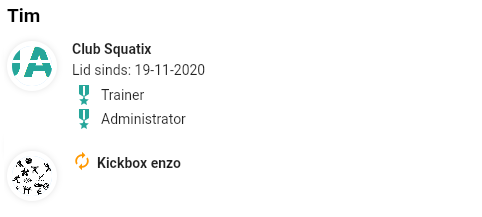
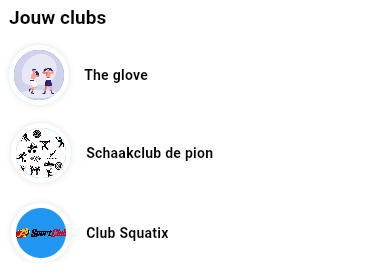
changes

diff --git a/docs/user/club.md b/docs/user/club.md
@@ -25,11 +25,11 @@ Vooraleer je van start kan gaan dien je eerst een ledenverzoek naar de club te s
 
 Je komt nu op de pagina terecht waar je zowel de status van jouw clubs/ledenverzoeken kan bekijken, op zoek gaan naar een club of zelf een club aanmaken.
 
-### Status clubs
+### Jouw clubs
 
-Je krijgt een overzicht van de door jou verstuurde ledenverzoeken die nog wachten op goedkeuring of de clubs waar je al lid van bent. Ook de rollen die je eventueel gekregen hebt bij
-jouw club worden hier vermeld. Indien je over extra profielen beschikt (zie [Extra profielen aanmaken](profile.md#extra-profielen-aanmaken)) worden hier ook de clubs vermeld waar de
-andere profielen lid van zijn of waar een ledenverzoek voor in behandeling is.
+Je krijgt een overzicht van de door jou verstuurde ledenverzoeken die nog wachten op goedkeuring of de clubs waar je al lid van bent. Indien je over extra profielen beschikt 
+(zie [Extra profielen aanmaken](profile.md#extra-profielen-aanmaken)) worden hier ook de clubs vermeld waar de andere profielen lid van zijn of waar een ledenverzoek voor in behandeling is.
+Door op een club te klikken ga je naar de club detail pagina (zie [Club detail](#club-detail))
 
 ![Overview clubs](/assets/images/overview_clubs.png)
 
@@ -74,12 +74,29 @@ honderd leden beheren in jouw club. Ben je tevreden met de werking en wil je gra
 
 Om een club aan te maken klik op "Club aanmaken". Vul alle nodige data in en klik nogmaals op "Club aanmaken". Je wordt automatisch naar de detailpagina van jouw nieuwe club gestuurd.
 
-## Abonnement bekijken
+## Club detail
 
-Het is mogelijk om het abonnement dat je bij een club hebt in de gaten te houden en zo op de hoogte te blijven van de status. Jouw abonnement vind je op de volgende locatie:
+Door op een club te klikken in de "jouw clubs" sectie (zie [Jouw clubs](#jouw-clubs)) kom je in de club detail pagina terecht. Hier vind je al jouw data bij de club.
 
-- Mobiele app: Ga onderaan naar "Club" en klik op "Status abonnement"
-- Webversie: Klik op "Info" onder de clubnaam in de linker navigatiebalk en scroll naar onderen
+### Overzicht 
+
+- Startdatum van jouw lidmaatschap
+- Jouw rollen bij de club
+- In -of uitschrijven op nieuwsbrieven van de club
+
+![Club detail](/assets/images/club_detail_overview.png)
+
+### Formulieren
+
+Formulieren zijn interacties tussen jou en de club:
+- Indien je jouw gebruikersprofiel veranderd wordt een formulier opgestuurd naar de club om de gewijzigde data over te nemen.
+- De club kan jou een formulier opsturen met vragen die je dient te beantwoorden.
+
+Dit is de plaats waar je formulieren kan beantwoorden (indien het vragen zijn) of waar je formulieren kan herbekijken
+
+### Abonnement
+
+Hier is het om de abonnementen die je bij de club hebt in de gaten te houden en zo op de hoogte te blijven van de status. Ook jouw vorige abonnementen, wijzigingen aan abonnementen etc vind je hier terug
 
 ![Subscription](/assets/images/subscription.png)
 
